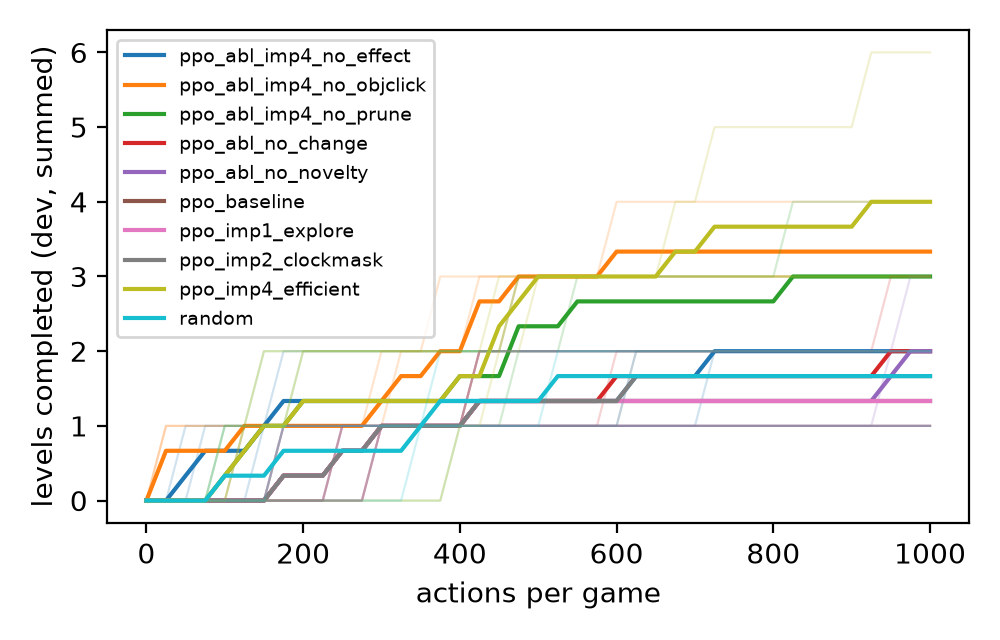
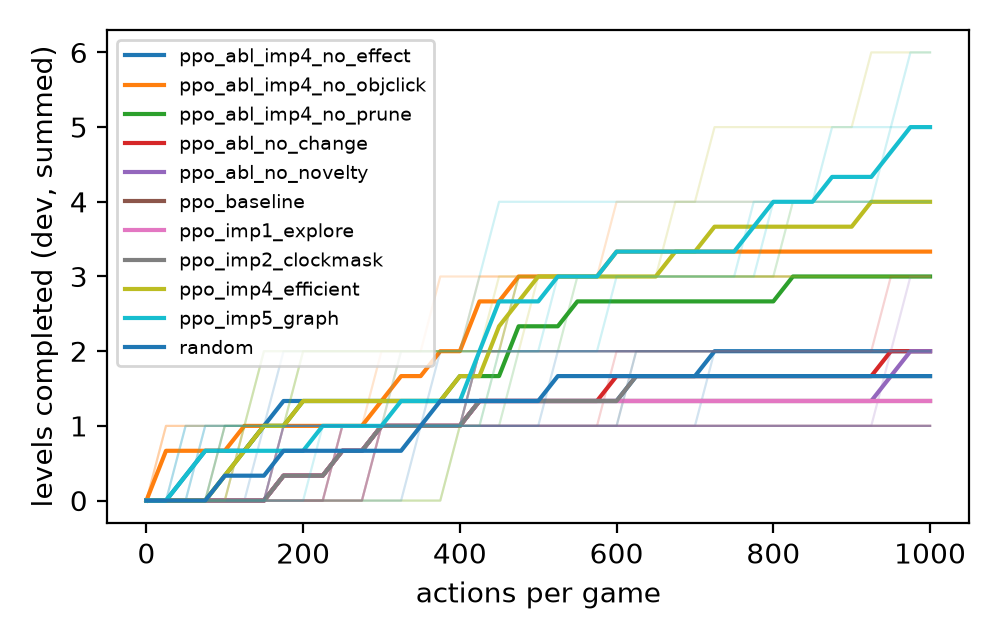
Improvement 5 results; submit PPO imp5

diff --git a/outputs/figures/summary.tex b/outputs/figures/summary.tex
@@ -13,6 +13,7 @@ dqn_imp1_explore & dev & 3 & 0.11 & 0.18 & 0.20 & 2.00 & 1.00 & 0.00 & 15000.00 
 dqn_imp2_clockmask & dev & 3 & 0.11 & 0.18 & 0.20 & 2.67 & 0.58 & 0.00 & 15000.00 & 1548.01 & 0.74 & 6981.67 & NaN \\
 dqn_imp3_pretrain & dev_b & 3 & 0.01 & 0.01 & 0.01 & 1.33 & 0.58 & 0.00 & 5000.00 & 328.92 & 0.53 & 1145.67 & NaN \\
 dqn_imp4_efficient & dev & 3 & 0.14 & 0.16 & 0.18 & 3.00 & 1.00 & 0.00 & 15000.00 & 1721.66 & 0.82 & 9962.33 & 0.65 \\
+dqn_imp5_graph & dev & 3 & 0.14 & 0.15 & 0.17 & 4.67 & 1.53 & 0.00 & 15000.00 & 1278.31 & 0.81 & 9954.00 & 0.66 \\
 ppo_abl_imp4_no_effect & dev & 3 & 0.06 & 0.05 & 0.06 & 2.00 & 0.00 & 0.00 & 15000.00 & 488.27 & 0.73 & 8756.67 & 0.50 \\
 ppo_abl_imp4_no_objclick & dev & 3 & 0.20 & 0.17 & 0.19 & 3.33 & 0.58 & 0.00 & 15000.00 & 917.40 & 0.79 & 8214.00 & 0.57 \\
 ppo_abl_imp4_no_prune & dev & 3 & 0.02 & 0.01 & 0.01 & 3.00 & 1.00 & 0.00 & 15000.00 & 897.06 & 0.78 & 9318.00 & 0.56 \\
@@ -23,7 +24,9 @@ ppo_imp1_explore & dev & 3 & 0.00 & 0.00 & 0.00 & 1.33 & 0.58 & 0.00 & 15000.00 
 ppo_imp2_clockmask & dev & 3 & 0.00 & 0.00 & 0.00 & 1.67 & 0.58 & 0.00 & 15000.00 & 546.76 & 0.71 & 6677.67 & NaN \\
 ppo_imp3_pretrain & dev_b & 3 & 0.00 & 0.00 & 0.00 & 0.33 & 0.58 & 0.00 & 5000.00 & 130.16 & 0.61 & 1747.67 & NaN \\
 ppo_imp4_efficient & dev & 3 & 0.03 & 0.03 & 0.03 & 4.00 & 1.73 & 0.00 & 15000.00 & 514.88 & 0.80 & 9818.67 & 0.63 \\
+ppo_imp5_graph & dev & 3 & 0.07 & 0.07 & 0.09 & 5.00 & 1.00 & 0.00 & 15000.00 & 638.32 & 0.80 & 9787.33 & 0.64 \\
 random & dev & 3 & 0.01 & 0.01 & 0.01 & 1.67 & 0.58 & 0.00 & 15000.00 & 55.45 & 0.68 & 5922.33 & NaN \\
 random_imp4_actions & dev & 3 & 0.23 & 0.14 & 0.16 & 1.33 & 0.58 & 0.00 & 15000.00 & 72.46 & 0.69 & 8025.33 & 0.45 \\
+random_imp5_graph & dev & 3 & 0.24 & 0.14 & 0.16 & 2.67 & 1.16 & 0.00 & 15000.00 & 38.63 & 0.69 & 8462.33 & 0.47 \\
 \bottomrule
 \end{tabular}

diff --git a/docs/EXPERIMENT_LOG.md b/docs/EXPERIMENT_LOG.md
@@ -15,25 +15,28 @@ Hardware for all rows so far: MacBook Pro, Intel x86_64 CPU, no GPU, torch 2.2.2
 | 24 Sept | ppo_imp1_explore | ppo_imp1_explore.yaml | dev | 0,1,2 | 0.003 ± 0.002 | 1.33 ± 0.58 | 17 min | change 0.712, unique 6356 |
 | 24 Sept | dqn_imp2_clockmask | dqn_imp2_clockmask.yaml | dev | 0,1,2 | 0.113 ± 0.176 | 2.67 ± 0.58 | 26 min | change 0.741, unique 6982; new: r11l s1@811, sp80 s2@587 |
 | 24 Sept | ppo_imp2_clockmask | ppo_imp2_clockmask.yaml | dev | 0,1,2 | 0.003 ± 0.003 | 1.67 ± 0.58 | 9 min | change 0.711, unique 6678; new: sp80 s0@616 |
-| 25 Sept | dqn_abl_no_novelty | ablations/dqn_final_no_novelty.yaml | dev | 0,1,2 | 0.110 | 2.33 ± 0.58 | 16 min | unique 6612 |
-| 25 Sept | dqn_abl_no_change | ablations/dqn_final_no_change.yaml | dev | 0,1,2 | 0.110 | 2.33 ± 0.58 | 17 min | unique 6803 |
-| 25 Sept | ppo_abl_no_novelty | ablations/ppo_final_no_novelty.yaml | dev | 0,1,2 | 0.003 | 2.00 ± 1.00 | 7 min | unique 6793; new: cn04 s2@971 |
-| 25 Sept | ppo_abl_no_change | ablations/ppo_final_no_change.yaml | dev | 0,1,2 | 0.003 | 2.00 ± 1.00 | 7 min | unique 6427 |
-| 26 Sept | dqn_imp4_efficient | dqn_imp4_efficient.yaml | dev | 0,1,2 | 0.138 ± 0.156 | 3.00 ± 1.00 | 29 min | unique 9962, effect rate 0.65 |
-| 26 Sept | ppo_imp4_efficient | ppo_imp4_efficient.yaml | dev | 0,1,2 | 0.027 ± 0.029 | 4.00 ± 1.73 | 9 min | unique 9819, effect rate 0.63; first level 2 (tu93) |
-| 26 Sept | random_imp4_actions | random_imp4_actions.yaml | dev | 0,1,2 | 0.235 ± 0.144 | 1.33 ± 0.58 | 1 min | control; score from r11l at 7/12 actions |
-| 26 Sept | imp4 ablations (6 runs) | ablations/*_imp4_no_*.yaml | dev | 0,1,2 | see improvement 4 ablations | | | |
+| 24 Sept | dqn_abl_no_novelty | ablations/dqn_final_no_novelty.yaml | dev | 0,1,2 | 0.110 | 2.33 ± 0.58 | 16 min | unique 6612 |
+| 24 Sept | dqn_abl_no_change | ablations/dqn_final_no_change.yaml | dev | 0,1,2 | 0.110 | 2.33 ± 0.58 | 17 min | unique 6803 |
+| 24 Sept | ppo_abl_no_novelty | ablations/ppo_final_no_novelty.yaml | dev | 0,1,2 | 0.003 | 2.00 ± 1.00 | 7 min | unique 6793; new: cn04 s2@971 |
+| 24 Sept | ppo_abl_no_change | ablations/ppo_final_no_change.yaml | dev | 0,1,2 | 0.003 | 2.00 ± 1.00 | 7 min | unique 6427 |
+| 24 Sept | dqn_imp4_efficient | dqn_imp4_efficient.yaml | dev | 0,1,2 | 0.138 ± 0.156 | 3.00 ± 1.00 | 29 min | unique 9962, effect rate 0.65 |
+| 24 Sept | ppo_imp4_efficient | ppo_imp4_efficient.yaml | dev | 0,1,2 | 0.027 ± 0.029 | 4.00 ± 1.73 | 9 min | unique 9819, effect rate 0.63; first level 2 (tu93) |
+| 24 Sept | random_imp4_actions | random_imp4_actions.yaml | dev | 0,1,2 | 0.235 ± 0.144 | 1.33 ± 0.58 | 1 min | control; score from r11l at 7/12 actions |
+| 24 Sept | imp4 ablations (6 runs) | ablations/*_imp4_no_*.yaml | dev | 0,1,2 | see improvement 4 ablations | | | |
+| 25 Sept | random_imp5_graph | random_imp5_graph.yaml | dev | 0,1,2 | 0.236 ± 0.142 | 2.67 ± 1.15 | 1 min | control; graph without learning |
+| 25 Sept | dqn_imp5_graph | dqn_imp5_graph.yaml | dev | 0,1,2 | 0.141 ± 0.154 | 4.67 ± 1.53 | 21 min | 2 × tu93 level 2; determinism 98.6% |
+| 25 Sept | ppo_imp5_graph | ppo_imp5_graph.yaml | dev | 0,1,2 | 0.070 ± 0.075 | 5.00 ± 1.00 | 11 min | 2 × tu93 level 2; determinism 98.6% |
 
 Improvement 3 runs (dev_b = cn04, lp85, sk48, su15, tu93; levels out of 5 games' worth; imp1/imp2/baselines pooled from dev runs):
 
 | Date | Run | Split | Seeds | Score | Levels on dev_b | Distinct frames | Eval time / seed | Pretrain time / seed |
 |---|---|---|---|---|---|---|---|---|
-| 25 Sept | random | dev_b | 0,1,2 | 0.001 | 0.67 ± 0.58 | 1116 | | |
-| 25 Sept | dqn_imp2_clockmask | dev_b | 0,1,2 | 0.014 | 1.00 ± 0.00 | 1406 | | |
-| 25 Sept | dqn_imp3_pretrain | dev_b | 0,1,2 | 0.005 | 1.33 ± 0.58 | 1146 | 5.6 min | 23 min (2 passes × 10 games) |
-| 25 Sept | dqn_abl_scratch_loweps | dev_b | 0,1,2 | 0.009 | 0.33 ± 0.58 | 763 | 5.8 min | |
-| 25 Sept | ppo_imp2_clockmask | dev_b | 0,1,2 | 0.001 | 0.33 ± 0.58 | 1312 | | |
-| 25 Sept | ppo_imp3_pretrain | dev_b | 0,1,2 | 0.000 | 0.33 ± 0.58 | 1748 | 2.3 min | 9.6 min |
+| 24 Sept | random | dev_b | 0,1,2 | 0.001 | 0.67 ± 0.58 | 1116 | | |
+| 24 Sept | dqn_imp2_clockmask | dev_b | 0,1,2 | 0.014 | 1.00 ± 0.00 | 1406 | | |
+| 24 Sept | dqn_imp3_pretrain | dev_b | 0,1,2 | 0.005 | 1.33 ± 0.58 | 1146 | 5.6 min | 23 min (2 passes × 10 games) |
+| 24 Sept | dqn_abl_scratch_loweps | dev_b | 0,1,2 | 0.009 | 0.33 ± 0.58 | 763 | 5.8 min | |
+| 24 Sept | ppo_imp2_clockmask | dev_b | 0,1,2 | 0.001 | 0.33 ± 0.58 | 1312 | | |
+| 24 Sept | ppo_imp3_pretrain | dev_b | 0,1,2 | 0.000 | 0.33 ± 0.58 | 1748 | 2.3 min | 9.6 min |
 
 Budget: 1000 actions per game, 15 dev games, 15 000 actions per seed. No wins in any run.
 `change` = share of non-reset actions that changed the frame (mean over games); `unique` = distinct frames per seed
@@ -99,7 +102,7 @@ under fixed seeds. Wall time varies ±40% between runs on the same laptop, so co
   - Levels (1.33) and score (0.003) are unchanged.
   - The hypothesis that PPO would gain more than DQN is rejected: DQN moved more on every exploration metric.
 
-### Ablations of improvement 2 (25 Sept, dev, 3 seeds; each removes one shaping term, clock mask kept)
+### Ablations of improvement 2 (24 Sept, dev, 3 seeds; each removes one shaping term, clock mask kept)
 
 | Run | Levels (per seed) | Distinct frames | Score |
 |---|---|---|---|
@@ -208,7 +211,7 @@ under fixed seeds. Wall time varies ±40% between runs on the same laptop, so co
   reported separately from evaluation cost (checkpoint `run_meta.json`, `pretrain_wall_time_s`).
 - **Caveat known in advance:** dev_b has 5 games, 3 of which (sk48, su15, tu93) have never been completed by any agent.
   A null result on dev_b is therefore weak evidence either way; the held-out run is the real test.
-- **Result, DQN (25 Sept): pretrained weights transfer an exploration prior; no clear gain in levels or efficiency.**
+- **Result, DQN (24 Sept): pretrained weights transfer an exploration prior; no clear gain in levels or efficiency.**
   - Levels on dev_b 1.00 → 1.33 ± 0.58. The extra level is **su15 seed 0 at action 841, the first su15 completion by
     any agent in any run**. One event, so suggestive only.
   - Actions to first completion did not improve: lp85 at 117/289/361 against 375/94/86 for imp2 (mean 256 vs 185).
@@ -217,7 +220,7 @@ under fixed seeds. Wall time varies ±40% between runs on the same laptop, so co
     useful exploratory behaviour into unseen games; without it, low ε alone is harmful.
   - Against imp2 at ε = 1.0, exploration is lower (1146 vs 1406 frames), so pretraining plus low ε roughly substitutes for
     random exploration rather than improving on it.
-- **Result, PPO (25 Sept): much broader exploration on unseen games, no gain in levels.**
+- **Result, PPO (24 Sept): much broader exploration on unseen games, no gain in levels.**
   - Distinct frames 1312 → 1748 (+33%), the highest of any run on dev_b. Levels unchanged (0.33; lp85 seed 1 at 706, a
     new completion; the imp2 completion lp85 seed 2 at 246 disappeared).
   - The pretrained policy transfers an exploration behaviour, but not a level-completing one.
@@ -230,7 +233,7 @@ under fixed seeds. Wall time varies ±40% between runs on the same laptop, so co
   Game-independent exploration behaviour transfers across ARC-AGI-3 games (strong for PPO, and it rescues low-ε DQN);
   level-completing behaviour does not, because level rewards are too rare during pretraining to learn from.
 
-### Decision on improvement 4 (25 Sept, revised the same day)
+### Decision on improvement 4 (24 Sept, revised the same day)
 The first decision was to stop, because pretraining did not give faster first completions. It was revised after
 comparing against published ARC-AGI-3 agents, which surfaced a limitation the log had measured but not acted on.
 - Context: frontier LLMs score below 1% on ARC-AGI-3. The preview winner StochasticGoose (a CNN that learns which actions
@@ -265,7 +268,7 @@ comparing against published ARC-AGI-3 agents, which surfaced a limitation the lo
   levels and actions to first completion, and official score against improvement 2 and random on all 15 dev games,
   3 seeds; then the three single-component ablations per algorithm (`ablations/*_imp4_no_*.yaml`).
   Completions are judged with the shared-luck rule.
-- **Result (26 Sept, dev, 3 seeds): the largest change of the investigation, strongest for PPO.**
+- **Result (24 Sept, dev, 3 seeds): the largest change of the investigation, strongest for PPO.**
 
   | Run | Levels (per seed) | Distinct frames | Score | Effect rate |
   |---|---|---|---|---|
@@ -294,7 +297,7 @@ comparing against published ARC-AGI-3 agents, which surfaced a limitation the lo
     `configs/random_imp4_actions.yaml` (random choice over the same abstraction, no learning) is the control for this.
   - **Cost:** wall time per seed similar to imp2 (DQN 29 min, PPO 9 min).
 
-### Improvement 4 — ablations and random control (26 Sept, dev, 3 seeds)
+### Improvement 4 — ablations and random control (24 Sept, dev, 3 seeds)
 
 | Run | Levels (per seed) | Levels excl. r11l | Distinct frames | Score | Score excl. r11l |
 |---|---|---|---|---|---|
@@ -357,7 +360,46 @@ comparing against published ARC-AGI-3 agents, which surfaced a limitation the lo
   from learning. `ablations/*_imp5_no_graph.yaml` (imp4 + timed mask, no graph) separates the graph from the mask change.
 - **Reporting caveat:** improvement 5 is hybrid; the search structure does part of the work. The comparison that answers
   the course question is DQN vs PPO under the same graph, and each learner vs the random-with-graph control.
-- **Result:**
+- **Decision rule, fixed before the results (24 Sept):** beats imp4 and random-with-graph on levels → full improvement,
+  and the submission if it also beats PPO imp4; beats imp4 but random-with-graph matches it → report that the search does
+  the work; no gain → short negative result.
+- **Result (25 Sept, dev, 3 seeds): the largest level gain for DQN, and the most second levels of any run.**
+
+  | Run | Levels (per seed) | Levels excl. r11l | Level-2 completions | Distinct frames | Score | Score excl. r11l |
+  |---|---|---|---|---|---|---|
+  | random_imp4_actions | 1.33 (1, 2, 1) | 0.33 | 0 | 8025 | 0.235 | 0.001 |
+  | random_imp5_graph (no learning) | 2.67 (4, 2, 2) | 1.67 | 1 | 8462 | 0.236 | 0.002 |
+  | dqn_imp4_efficient | 3.00 (4, 2, 3) | 2.00 | 0 | 9962 | 0.138 | 0.005 |
+  | **dqn_imp5_graph** | **4.67 (6, 5, 3)** | **3.67** | **2** | 9954 | 0.141 | 0.007 |
+  | ppo_imp4_efficient | 4.00 (6, 3, 3) | 3.00 | 1 | 9819 | 0.027 | 0.014 |
+  | **ppo_imp5_graph** | **5.00 (4, 5, 6)** | **4.00** | **2** | 9787 | 0.070 | 0.003 |
+
+  - **DQN: +1.67 levels over imp4** (3.00 → 4.67), levels excluding r11l 2.00 → 3.67. The worst imp5 seed (3) equals the
+    imp4 mean. **PPO: +1.00** (4.00 → 5.00); its worst seed (4) is above the imp4 median (3).
+  - **Learning still adds beyond the search.** Random with the graph reaches 2.67 levels (1.33 without it). DQN and PPO with
+    the graph reach 4.67 and 5.00. Per seed, PPO's worst (4) equals the control's best (4), and DQN's worst (3) is below the
+    control's best (4). The learner effect is consistent in the mean but overlaps at the extremes.
+  - **Where it helped: tu93, the one game where return navigation is active.** tu93 levels, summed over seeds: imp4 DQN 0 /
+    PPO 2 → imp5 DQN 4 / PPO 5 / random-with-graph 3. Level 2 was reached in 2 of 3 seeds for both DQN and PPO (e.g. PPO
+    seed 1 at actions 403 and 599). 15% of tu93 actions were planned returns, against 1.6–1.8% over all games. DQN also
+    gained lp85 (2 → 3), PPO lost none.
+  - **Mechanism elsewhere is "never repeat a tried action", not navigation.** Over all games, only 1.6% (DQN), 1.8% (PPO)
+    and 1.8% (random) of actions were planned returns. Click games have up to 262 legal actions per state, so states are
+    rarely exhausted within 1000 actions, and the graph acts as a stricter version of imp4's no-effect pruning. The
+    `*_imp5_no_graph` ablation separates the two.
+  - **Determinism assumption holds:** 98.6% of repeated (state, action) pairs led to the same next state (DQN 1367/1386,
+    PPO 794/805, random 1329/1346). Inconsistencies concentrate in tu93 (move-budget game-overs) and sk48.
+  - **Fallback decisions** (exhausted state with no reachable untried state) occur only in tu93, for DQN (665 in total) and
+    random (541), never for PPO. With the move counter masked, a life can run out before the return path completes.
+  - **Official score is unchanged in substance.** Excluding r11l, all imp5 scores are ≤ 0.007: second-level completions
+    take 200–490 actions against a 16-action human baseline, so they add almost nothing to the efficiency-weighted score.
+    PPO imp5 is lower than PPO imp4 excluding r11l (0.003 vs 0.014) because its sp80 completions came later (416–956 vs
+    440–488).
+  - **Cost:** DQN 21 min, PPO 11 min per seed; the graph adds no measurable overhead (DQN is faster than imp4 because
+    planned steps skip learner updates).
+- **Decision under the fixed rule:** improvement 5 beats imp4 for both algorithms and beats random-with-graph in the mean,
+  so it goes into the report as a full improvement. **Submission: PPO imp5** (most levels, 5.00; most second levels;
+  3× faster than DQN). This is chosen on levels, not dev score, because the dev score is dominated by r11l luck.
 
 ### Optional, not in the main chain
 Frame-stack memory (`*_opt_memory.yaml`) and object-aware clicks (`*_opt_objclick.yaml`) remain available as extra

diff --git a/outputs/figures/summary.md b/outputs/figures/summary.md
@@ -11,6 +11,7 @@
 | dqn_imp2_clockmask       | dev     |       3 |        0.113 |       0.176 |        0.199 |         2.667 |        0.577 |           0 |          15000 |           1548.01  |              0.741 |             6981.67  |            nan     |
 | dqn_imp3_pretrain        | dev_b   |       3 |        0.005 |       0.006 |        0.007 |         1.333 |        0.577 |           0 |           5000 |            328.917 |              0.533 |             1145.67  |            nan     |
 | dqn_imp4_efficient       | dev     |       3 |        0.138 |       0.156 |        0.177 |         3     |        1     |           0 |          15000 |           1721.66  |              0.823 |             9962.33  |              0.65  |
+| dqn_imp5_graph           | dev     |       3 |        0.141 |       0.154 |        0.175 |         4.667 |        1.528 |           0 |          15000 |           1278.31  |              0.811 |             9954     |              0.657 |
 | ppo_abl_imp4_no_effect   | dev     |       3 |        0.061 |       0.052 |        0.059 |         2     |        0     |           0 |          15000 |            488.27  |              0.734 |             8756.67  |              0.503 |
 | ppo_abl_imp4_no_objclick | dev     |       3 |        0.2   |       0.167 |        0.189 |         3.333 |        0.577 |           0 |          15000 |            917.4   |              0.79  |             8214     |              0.572 |
 | ppo_abl_imp4_no_prune    | dev     |       3 |        0.016 |       0.012 |        0.014 |         3     |        1     |           0 |          15000 |            897.063 |              0.778 |             9318     |              0.562 |
@@ -21,5 +22,7 @@
 | ppo_imp2_clockmask       | dev     |       3 |        0.003 |       0.003 |        0.003 |         1.667 |        0.577 |           0 |          15000 |            546.757 |              0.711 |             6677.67  |            nan     |
 | ppo_imp3_pretrain        | dev_b   |       3 |        0     |       0     |        0     |         0.333 |        0.577 |           0 |           5000 |            130.16  |              0.613 |             1747.67  |            nan     |
 | ppo_imp4_efficient       | dev     |       3 |        0.027 |       0.029 |        0.032 |         4     |        1.732 |           0 |          15000 |            514.877 |              0.8   |             9818.67  |              0.627 |
+| ppo_imp5_graph           | dev     |       3 |        0.07  |       0.075 |        0.085 |         5     |        1     |           0 |          15000 |            638.32  |              0.797 |             9787.33  |              0.635 |
 | random                   | dev     |       3 |        0.01  |       0.011 |        0.012 |         1.667 |        0.577 |           0 |          15000 |             55.447 |              0.676 |             5922.33  |            nan     |
 | random_imp4_actions      | dev     |       3 |        0.235 |       0.144 |        0.162 |         1.333 |        0.577 |           0 |          15000 |             72.463 |              0.694 |             8025.33  |              0.446 |
+| random_imp5_graph        | dev     |       3 |        0.236 |       0.142 |        0.161 |         2.667 |        1.155 |           0 |          15000 |             38.633 |              0.692 |             8462.33  |              0.472 |
